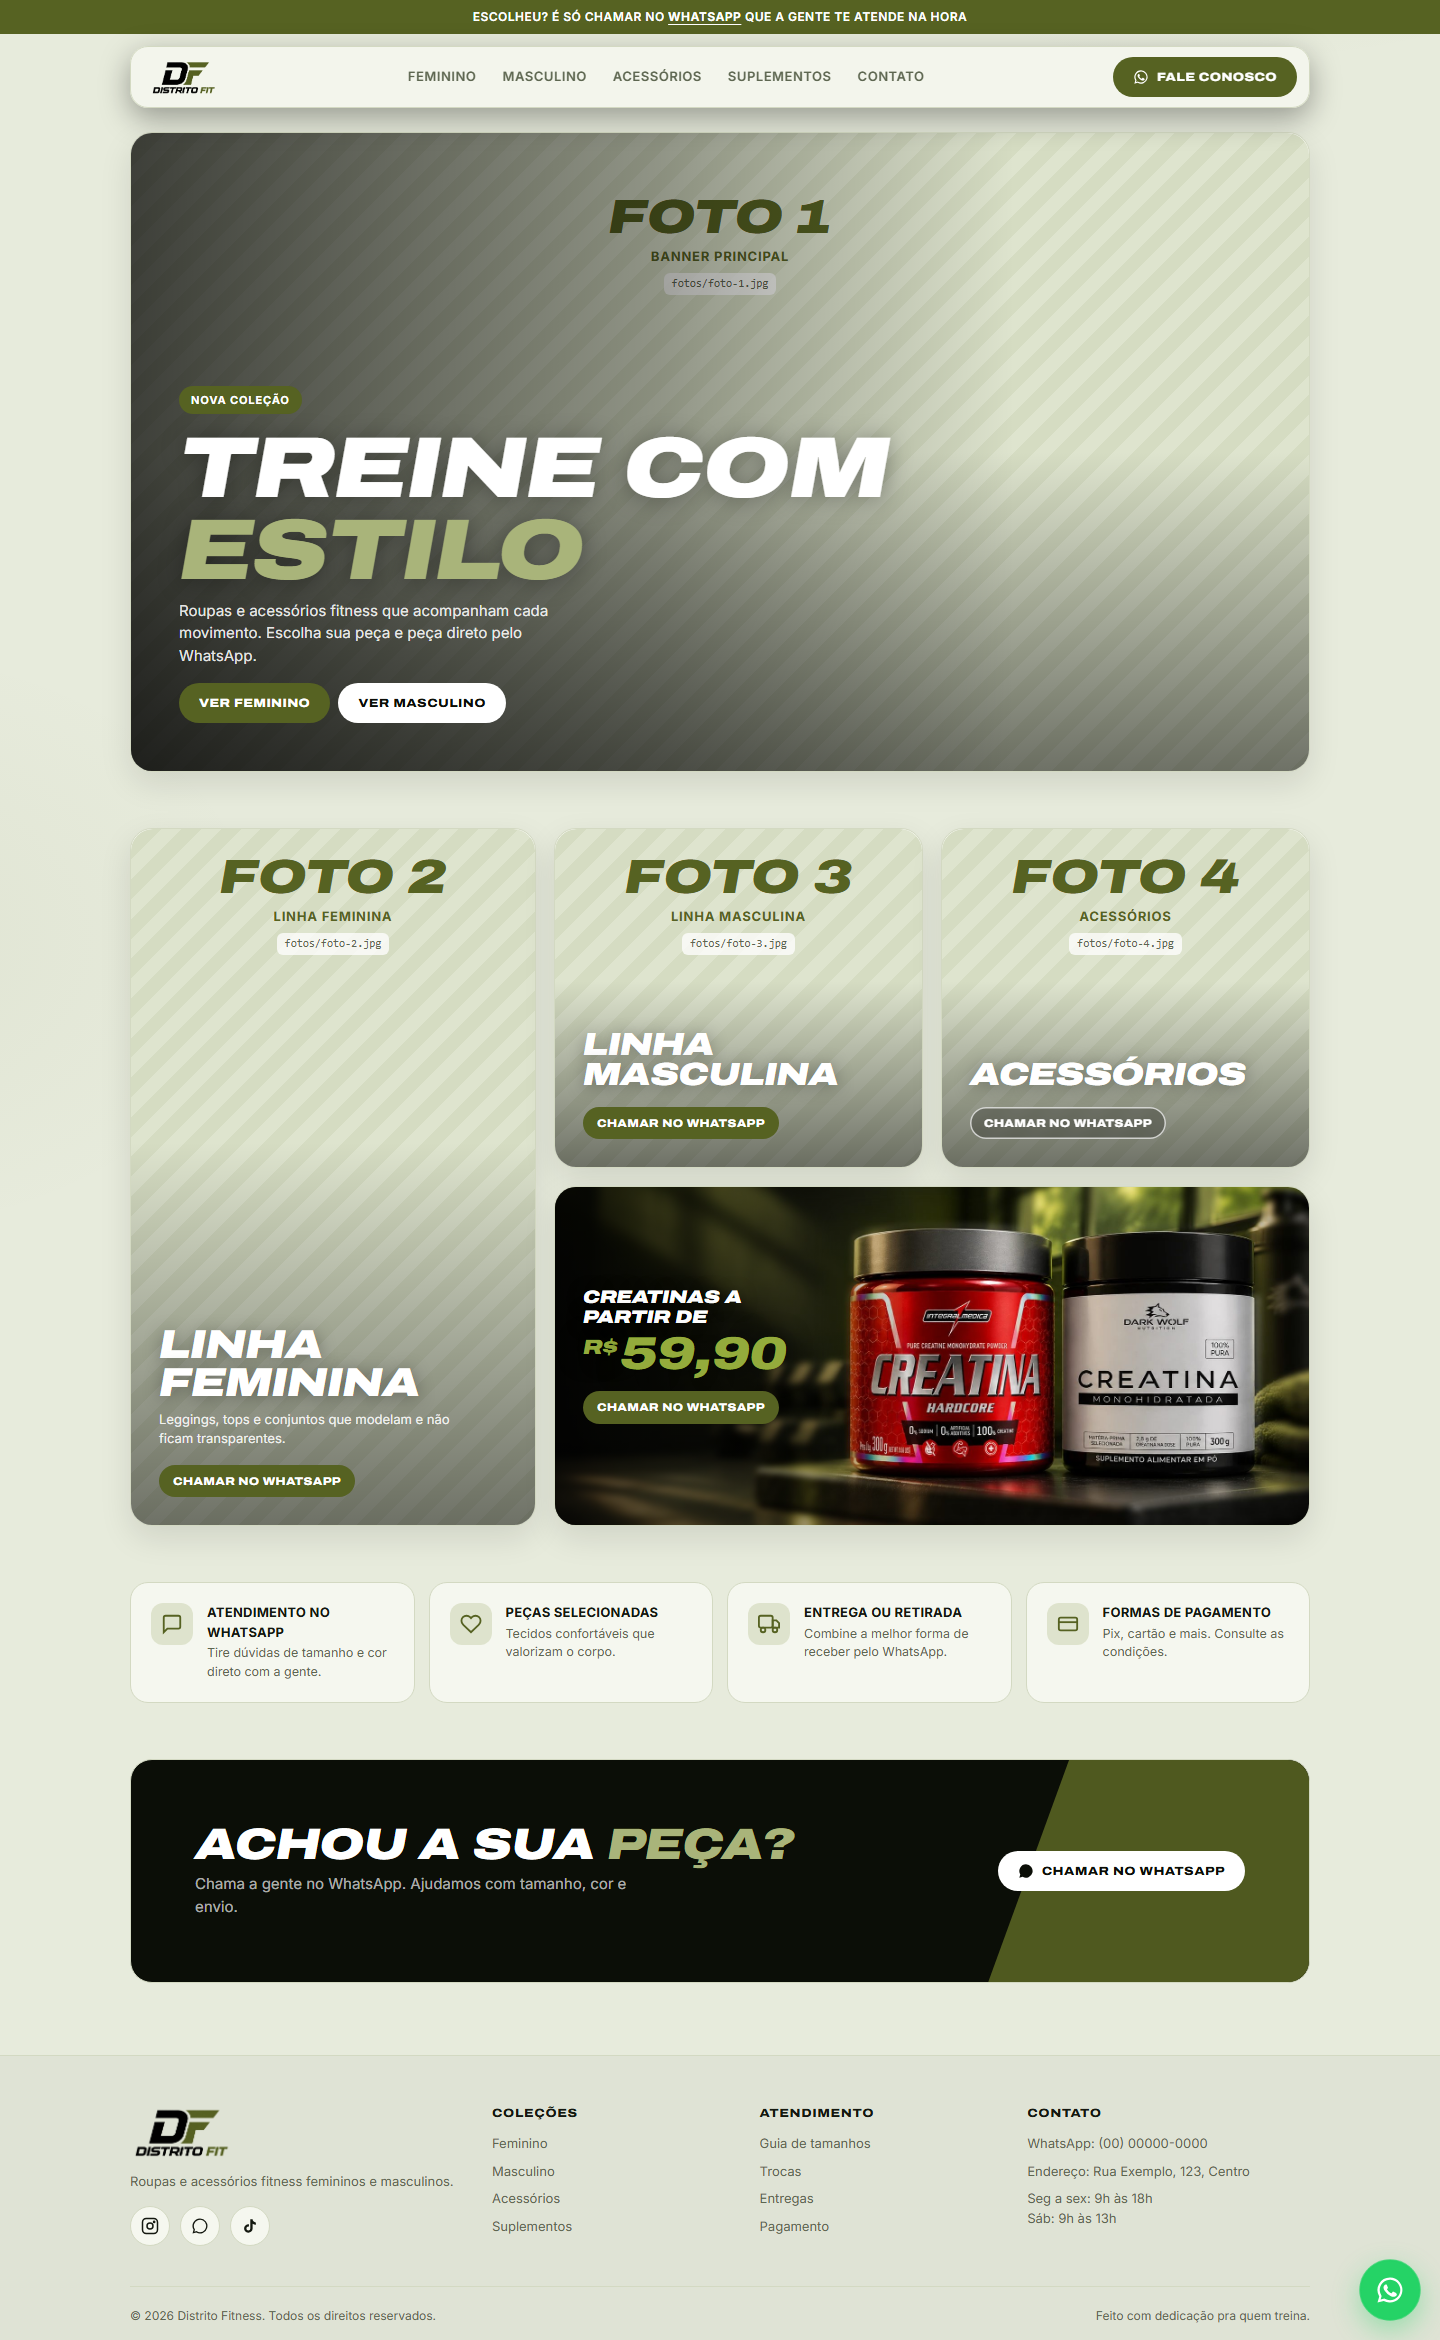
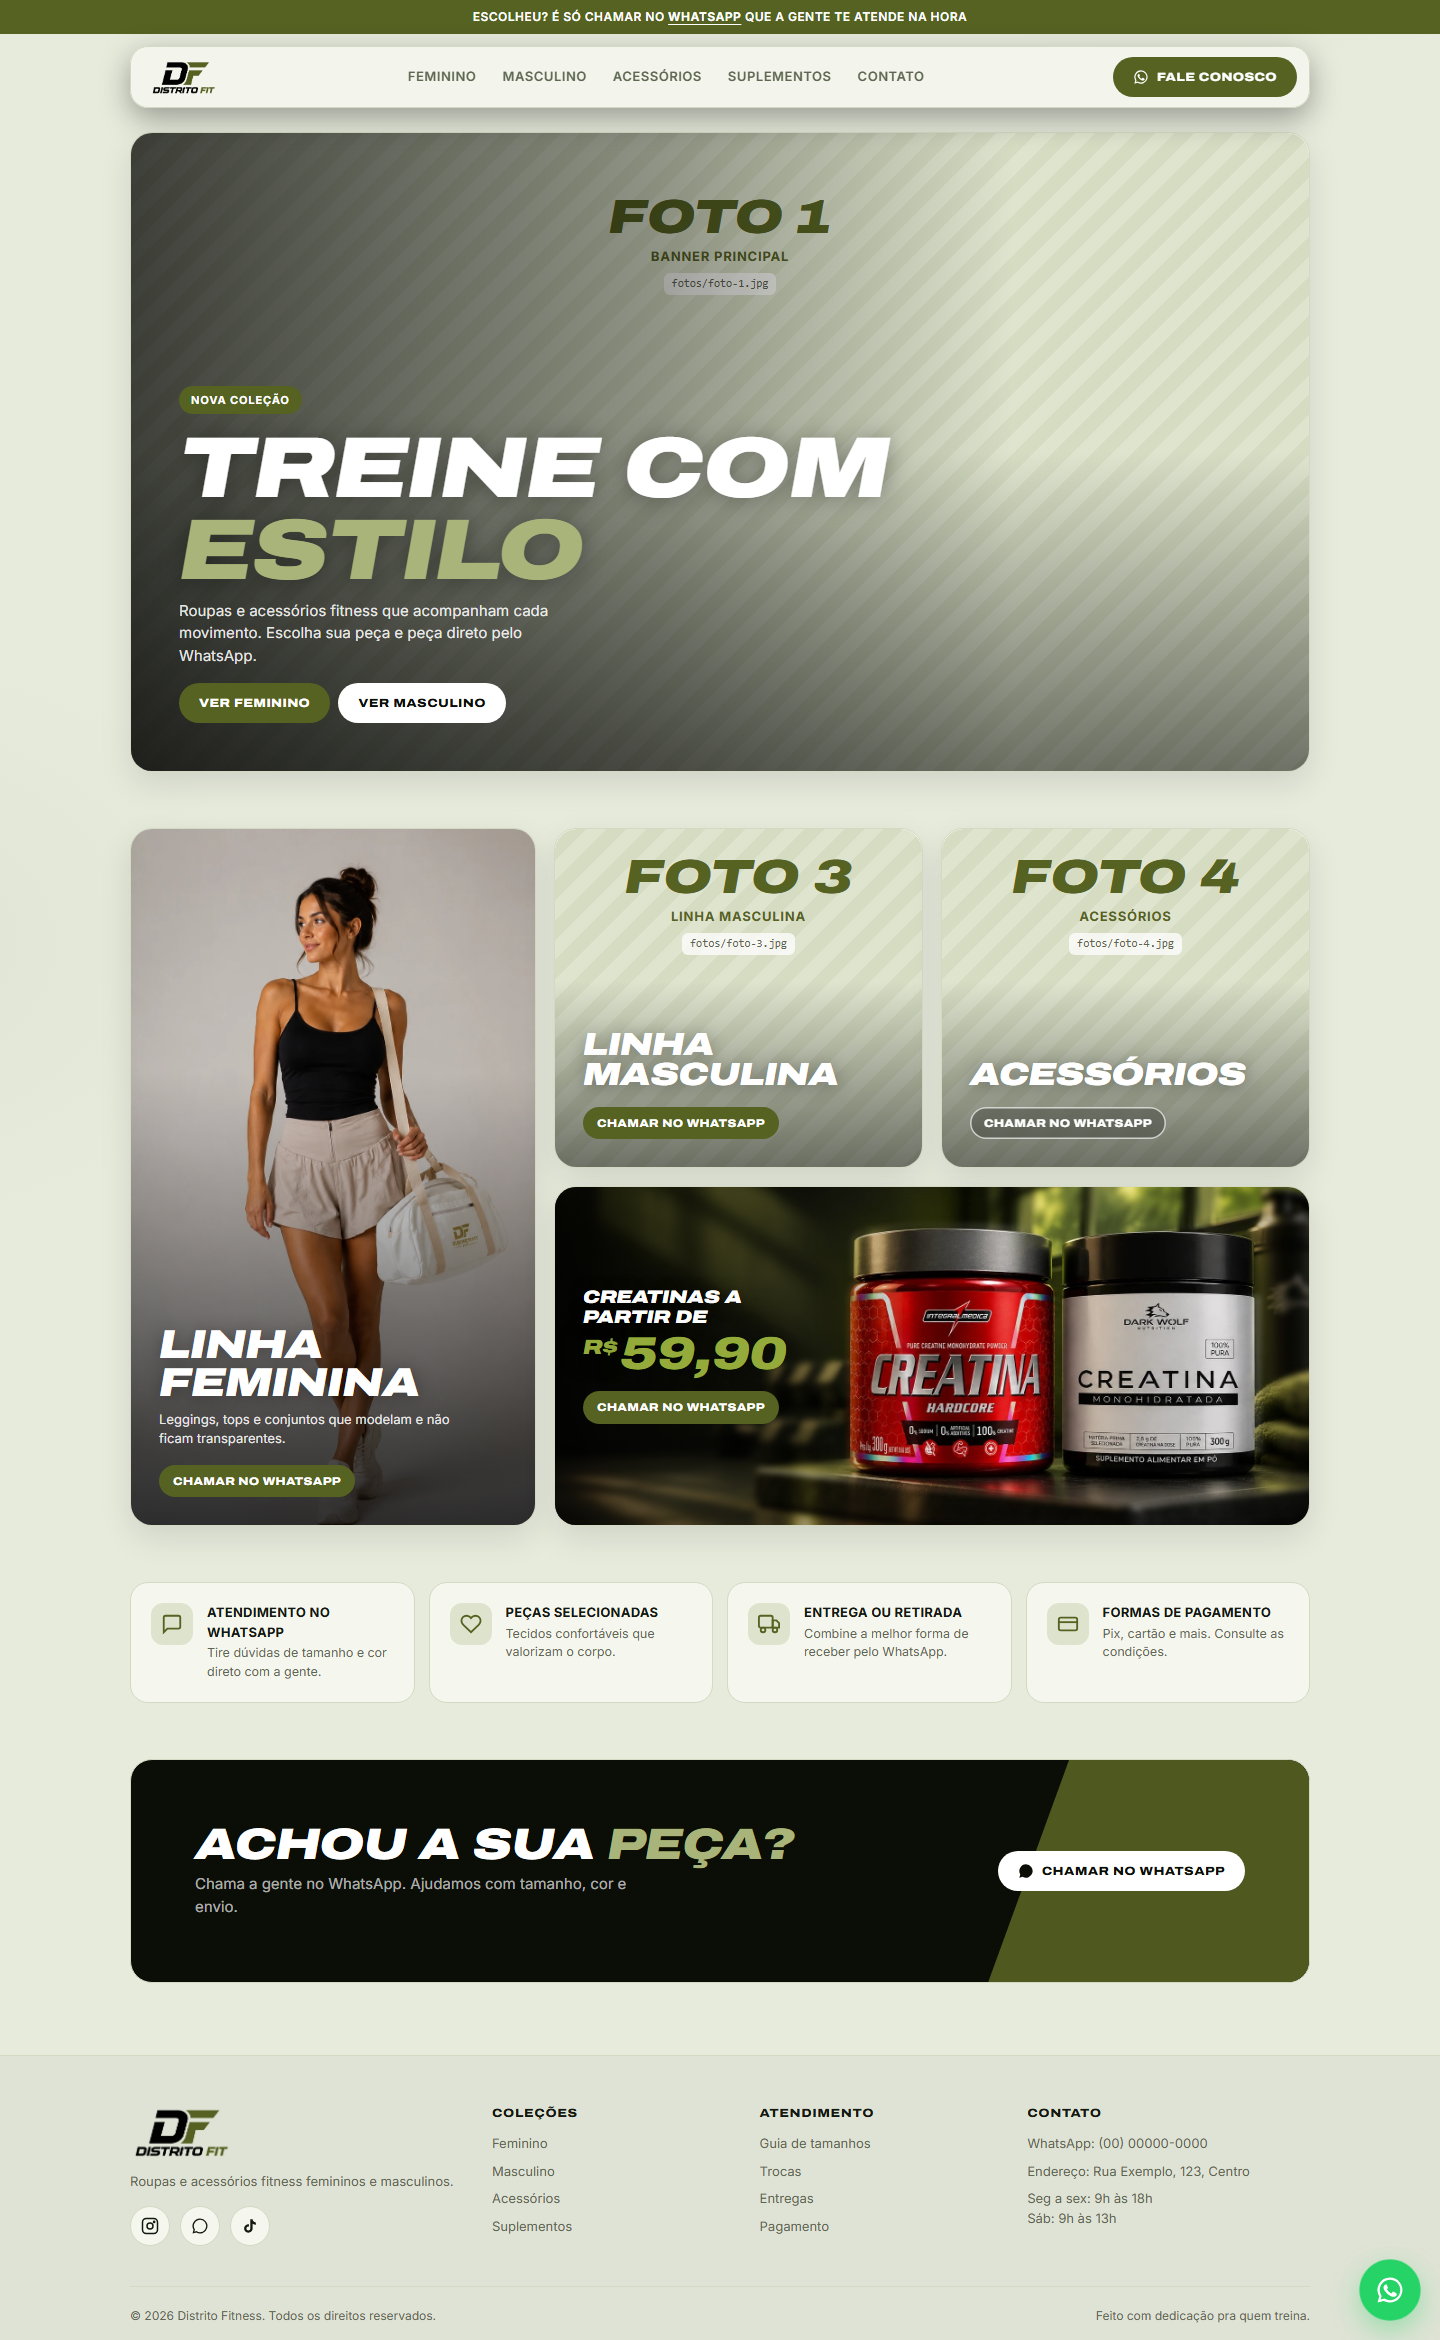
Foto 2: moda-fitness-feminina.webp

Changed region(s): [[0.0938, 0.3432, 0.375, 0.6551]]

diff --git a/index.html b/index.html
@@ -253,7 +253,7 @@ a{color:inherit;text-decoration:none}
   <!-- ===== MOSAICO (4 fotos) ===== -->
   <section class="secao mosaico" id="colecoes">
     <div class="card-foto alto revelar" id="feminino">
-      <img src="fotos/foto-2.jpg" alt="Foto 2 · Linha feminina">
+      <img src="fotos/moda-fitness-feminina.webp" alt="Moda fitness feminina: top preto, short e bolsa de treino Distrito Fitness" width="941" height="1672" loading="lazy" style="object-position:center 20%">
       <div class="conteudo">
         <h3 class="titulo">Linha<br>feminina</h3>
         <p>Leggings, tops e conjuntos que modelam e não ficam transparentes.</p>
